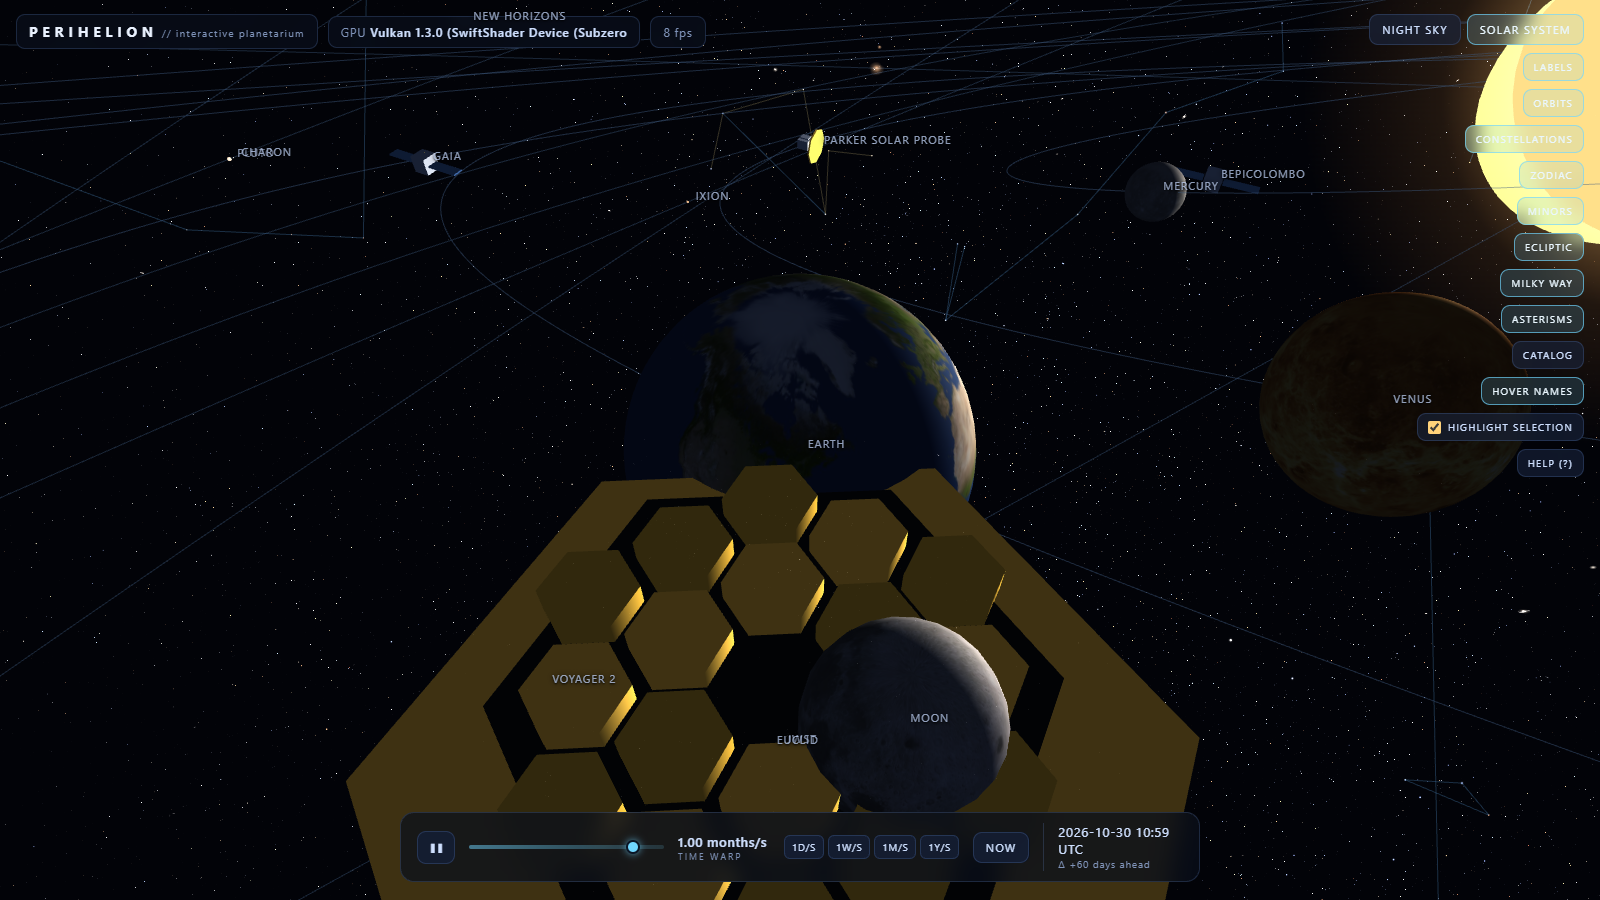
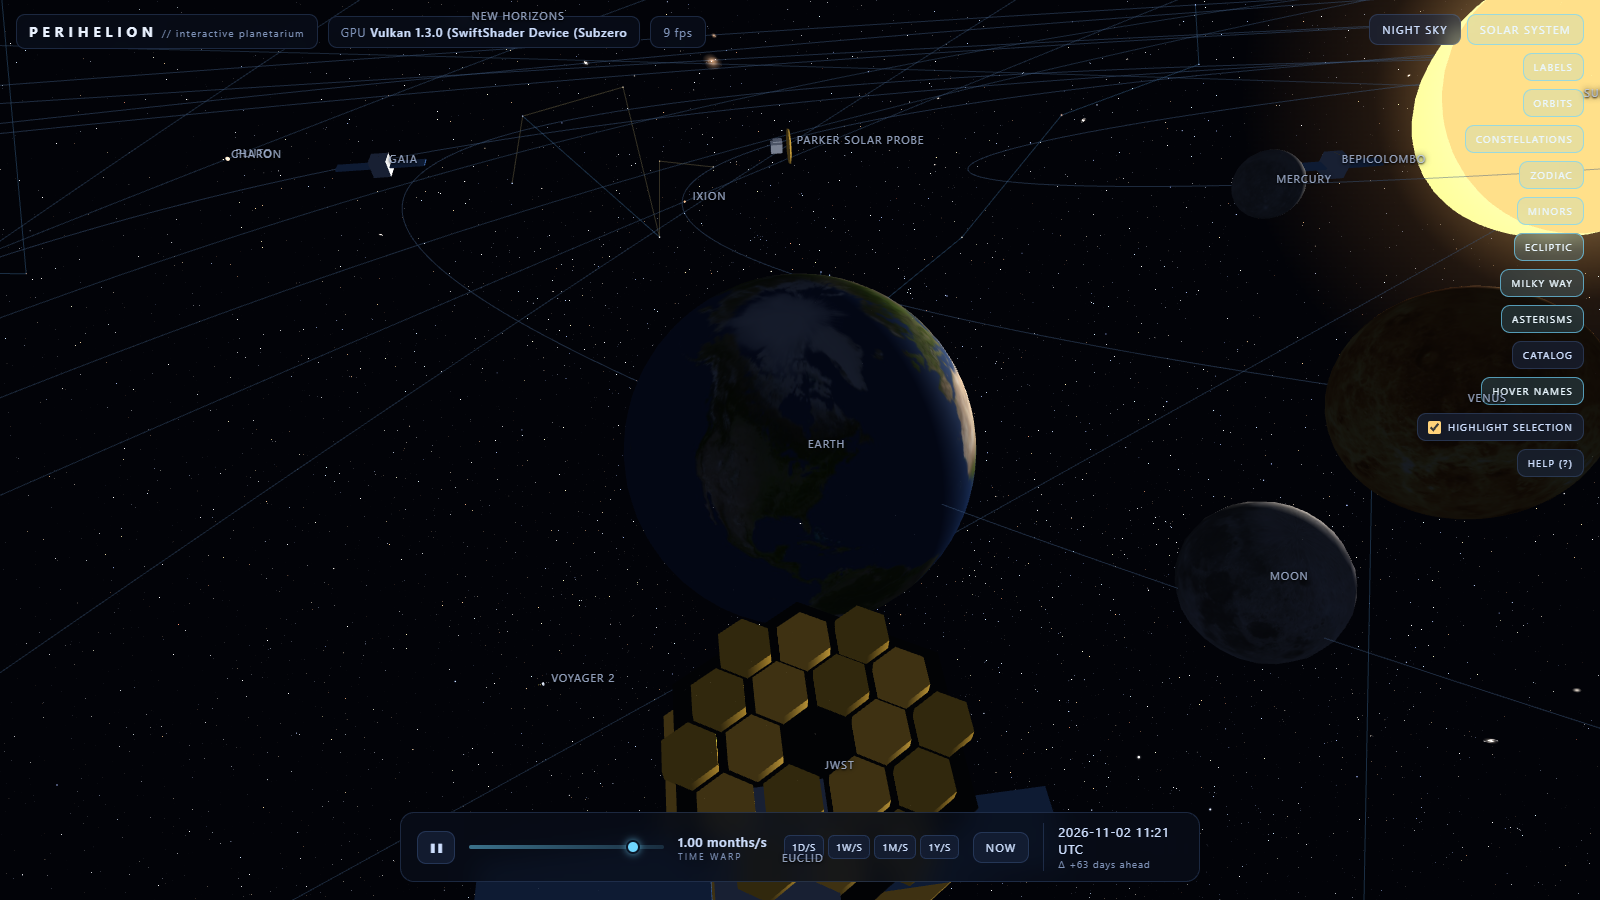
Stars at infinity in solar mode; JWST rescaled and repositioned
1) Infinite sky (user: 'New Horizons and Eris sit outside the ball of
   stars'): in solar mode the celestial dome is scaled 50x (r=5000 -
   inside the 6000 far plane, outside the 4000 max camera distance), so
   the starfield is an unbounded background with no visible rim and
   every probe/dwarf planet sits inside it. Star point sizes are in
   pixels, so nothing else changes. Sky mode stays at unit scale.

2) JWST was 'too big and too close' to Earth:
   - model size 0.34 -> 0.20, sunshield 1.7s -> 1.15s: the shield is now
     ~64% of Earth's on-screen width instead of wider than the planet
   - de-embed clearance tightened (1.5x planet radius + 1.1x model half):
     JWST now parks ~1.98 from Earth's centre (surface at 0.9) with a
     clear visible gap instead of hugging the limb
   QA: qa-planetzoom now asserts dome 50x/1x per mode, JWST centre
   distance > 1.9 and shield width < Earth diameter; evidence shots
   qa-sky-infinity.png + qa-jwst-scale.png. Vision-verified: stars fill
   the whole background with no rim, all markers inside; JWST reads as
   a hex-mirror telescope at ~half Earth's width with a clear gap.

diff --git a/js/probes.js b/js/probes.js
@@ -18,7 +18,7 @@ P.probes = {
   t0Date: '2026-08-30T12:00TDB',
   probes: [
     { key: 'jwst', name: 'JWST', tier: 1,
-      color: 0xd8b84a, size: 0.34, model: 'jwst',
+      color: 0xd8b84a, size: 0.2, model: 'jwst',
       el: { a: 1.0533353, e: 0.036695509, i: 0.1819, Omega: 309.9312, w: 50.4084, M0: 337.919655, n: 0.911704589, varpi: 0.3397, t0: 9738 },
       aliases: ["James Webb","Webb"],
[1 lines of base64/hex data omitted]

diff --git a/js/solar.js b/js/solar.js
@@ -176,11 +176,12 @@ P.solar = (function () {
       const add = (m) => { g.add(m); return m; };
 
       if (p.model === 'jwst') {
-        /* five-layer gold sunshield: much wider than the mirror (like the
-           real ~21 m kite), tapered, visibly staggered stack */
+        /* five-layer gold sunshield: wider than the mirror (like the real
+           ~21 m kite), tapered, visibly staggered stack. Kept modest so the
+           whole spacecraft stays visibly smaller than the Earth it orbits. */
         for (let i = 0; i < 5; i++) {
           const layer = add(new THREE.Mesh(
-            new THREE.CylinderGeometry((1.7 - i * 0.11) * s, (1.7 - i * 0.11) * s, 0.04 * s, 6),
+            new THREE.CylinderGeometry((1.15 - i * 0.08) * s, (1.15 - i * 0.08) * s, 0.04 * s, 6),
             i % 2 ? gold2 : gold));
           layer.position.y = -0.16 * s - i * 0.12 * s;
         }
@@ -343,7 +344,9 @@ P.solar = (function () {
           const pp = meshes[pl.name].position;
           const dx = _v1.x - pp.x, dy = _v1.y - pp.y, dz = _v1.z - pp.z;
           const L2 = Math.hypot(dx, dy, dz);
-          const minR = pl.size + half * 1.05;
+          /* park the probe clearly outside the planet's disc — ~1.5 radii
+             from centre for L2-type company — not just non-intersecting */
+          const minR = pl.size * 1.5 + half * 1.1;
           if (L2 > 1e-9 && L2 < minR) {
             const k = minR / L2;
             _v1.x = pp.x + dx * k;

diff --git a/js/app.js b/js/app.js
@@ -1098,6 +1098,13 @@ P.app = (function () {
   /* ------------------------------------------------------------- modes --- */
   function applyVisibility() {
     sky.dome.visible = true;
+    /* In solar mode the celestial dome is pushed to (visual) infinity:
+       50× its radius (5000, inside the 6000 far plane, outside the 4000
+       max camera distance) so it surrounds the WHOLE system — probes and
+       dwarf planets included — instead of forming a visible ball inside it.
+       Star point sizes are in pixels, so nothing changes visually except
+       that the sky is now a proper infinite background. */
+    sky.dome.scale.setScalar(state.mode === 'solar' ? 50 : 1);
     sky.bodies.visible = state.mode === 'sky';
     solar.group.visible = state.mode === 'solar';
     sky.constellations.visible = state.constellations;
